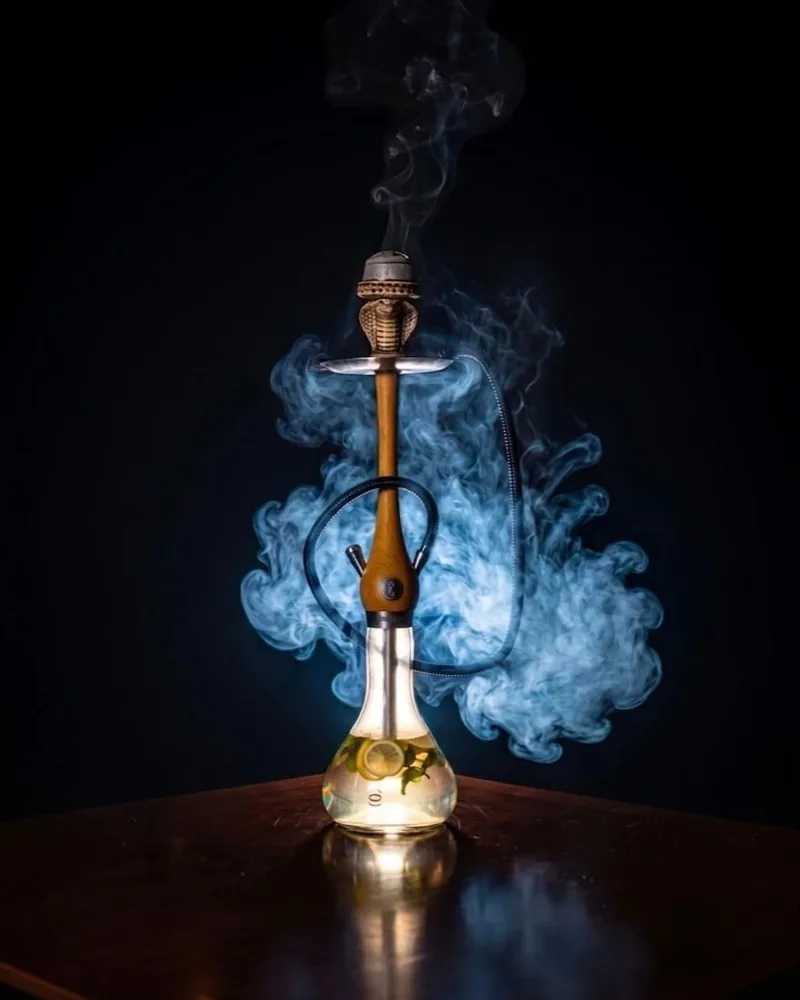
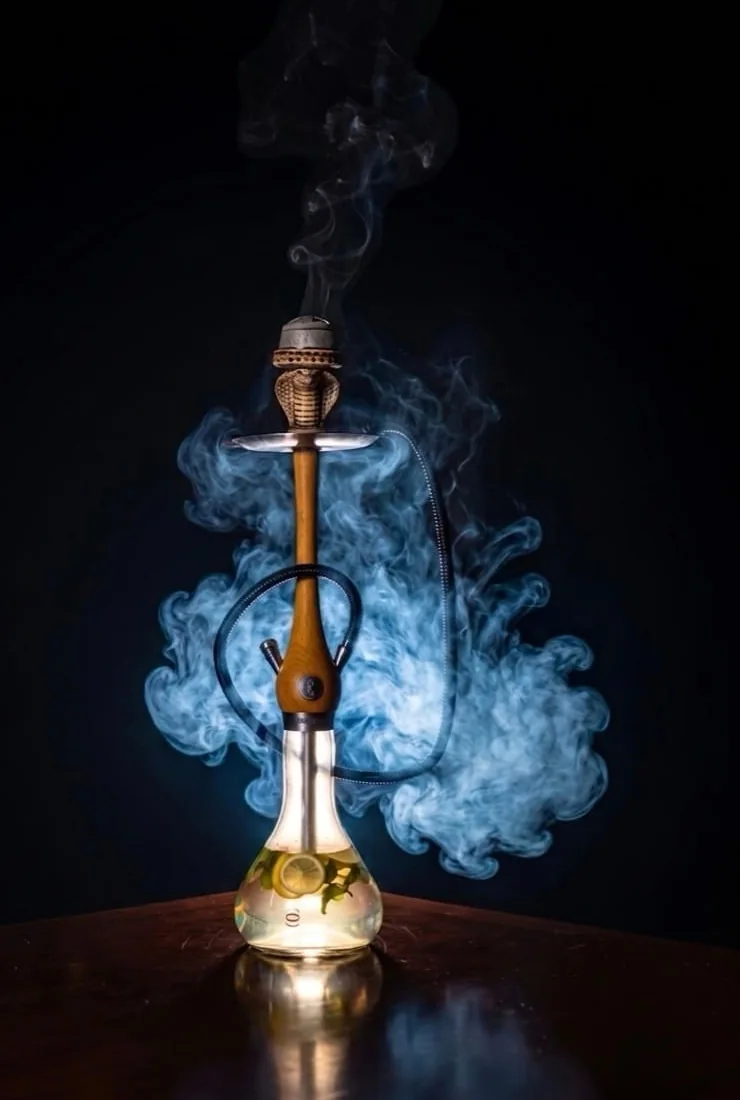
Shisha page: bigger cobra hookah photo, aligned to the Specials text
- tighter crop so the hookah fills more of the frame
- photo stretches to match the height of the text block (desktop)

Claude-Session: https://claude.ai/code/session_01FYVSFfaWUhqLWJjgP9rSfw

diff --git a/shisha/index.html b/shisha/index.html
@@ -69,6 +69,10 @@ h1{font-size:clamp(2.6rem,8vw,4.8rem);font-weight:600;line-height:1;color:#fff}
 .card .ph{aspect-ratio:4/5;max-height:80vh;width:100%;max-width:480px;justify-self:center}
 .no{display:block;font-size:.72rem;letter-spacing:.3em;color:var(--acc);font-weight:600;margin-bottom:12px}
 @media (max-width:760px){.card{grid-template-columns:1fr}.card:nth-child(even) .ph{order:0}.card .ph{max-width:340px}}
+.card.tall .ph{aspect-ratio:auto;max-height:none;max-width:none;align-self:stretch;min-height:560px}
+.card.tall .ph img{position:absolute;inset:0;object-position:center 50%}
+@media (max-width:760px){.card.tall .ph{align-self:auto;aspect-ratio:740/1100;min-height:0;max-width:420px}}
+
 </style>
 </head>
 <body>
@@ -77,7 +81,7 @@ h1{font-size:clamp(2.6rem,8vw,4.8rem);font-weight:600;line-height:1;color:#fff}
 <main class="cards">
 <article class="card"><div class="ph"><img src="/menu/img/shisha-1.webp" alt="Amber cube hookah" width="720" height="900" decoding="async"></div><div class="rv"><span class="no">01</span><div class="hd"><h2>Single shisha</h2><b>AED 65</b></div><p class="sub">Single flavours, with mint or without.</p><div class="shChips"><span>Double apple</span><span>Grape mint</span><span>Grape-berry</span><span>Grape</span><span>Lemon</span><span>Orange</span><span>Grapefruit</span><span>Fresh mist</span><span>Blueberry</span><span>Watermelon</span><span>Sweet melon</span><span>Pineapple</span><span>Gum</span><span>Bubble gum</span><span>Gum mastic</span><span>Strawberry</span><span>Mint</span><span>Coconut</span><span>Kiwi</span><span>Vanilla cherry</span><span>Peach</span><span>Mango</span><span>Gum cinnamon</span><span>Rose</span><span>Chocolate coffee</span><span>Energy drink</span><span>Banana</span></div></div></article>
 <article class="card"><div class="ph"><img src="/menu/img/shisha-2.webp" alt="Carbon fibre hookah" width="720" height="900" decoding="async"></div><div class="rv"><span class="no">02</span><div class="hd"><h2>Mix flavours</h2><b>AED 109</b></div><p class="sub">Blend of 2–3 flavours — make it your own.</p></div></article>
-<article class="card"><div class="ph"><img src="/menu/img/shisha-3.webp" alt="Hookah with wooden stem and lemon-mint base" width="720" height="900" decoding="async" loading="lazy"></div><div class="rv"><span class="no">03</span><div class="hd"><h2>Specials</h2><b>AED 139</b></div><p class="sub">Our signature blends.</p><ul class="lst"><li><strong>Mi Amor</strong><p>Crazy tropical mix of juicy pineapple, ripe banana, and refreshing mint</p></li><li><strong>Lady Killer</strong><p>Iced, minty tropical mango and sweet peach</p></li><li><strong>Love 66</strong><p>The golden recipe of all times in hookah with passion fruits, honeydew melon, watermelon, mint</p></li><li><strong>Marbella</strong><p>A delicious mix of cherry, caramel and chocolate</p></li><li><strong>Hawaii</strong><p>Juicy pineapple and sweet mango with mint</p></li><li><strong>Sky Fall</strong><p>Taste of sweet berries with refreshing lime</p></li><li><strong>Istanbul Night</strong><p>The mix of blueberries, raspberries, and currants</p></li></ul></div></article>
+<article class="card tall"><div class="ph"><img src="/menu/img/shisha-3.webp" alt="Hookah with wooden stem and lemon-mint base" width="740" height="1100" decoding="async" loading="lazy"></div><div class="rv"><span class="no">03</span><div class="hd"><h2>Specials</h2><b>AED 139</b></div><p class="sub">Our signature blends.</p><ul class="lst"><li><strong>Mi Amor</strong><p>Crazy tropical mix of juicy pineapple, ripe banana, and refreshing mint</p></li><li><strong>Lady Killer</strong><p>Iced, minty tropical mango and sweet peach</p></li><li><strong>Love 66</strong><p>The golden recipe of all times in hookah with passion fruits, honeydew melon, watermelon, mint</p></li><li><strong>Marbella</strong><p>A delicious mix of cherry, caramel and chocolate</p></li><li><strong>Hawaii</strong><p>Juicy pineapple and sweet mango with mint</p></li><li><strong>Sky Fall</strong><p>Taste of sweet berries with refreshing lime</p></li><li><strong>Istanbul Night</strong><p>The mix of blueberries, raspberries, and currants</p></li></ul></div></article>
 <article class="card"><div class="ph"><img src="/menu/img/shisha-4.webp" alt="Silver hookah with blue crystal base" width="720" height="900" decoding="async" loading="lazy"></div><div class="rv"><span class="no">04</span><div class="hd"><h2>Nova cocktails · I</h2><b>AED 159</b></div><p class="sub">Cocktail-style blends, part one.</p><ul class="lst"><li><strong>Melon Honey</strong><p>Natural sweet melon taste with extra sweetness</p></li><li><strong>Tutti Frutti</strong><p>Mix of tropical fruits, topped with little bit of freshness</p></li><li><strong>Ice Baby</strong><p>Bright grapefruit meets wild berry sorbet, light, refreshing, and perfect for summer</p></li><li><strong>Strawberry Jam</strong><p>Strawberry jam with hint of berry flavour</p></li><li><strong>Lemon Shock</strong><p>Taste of ultra sour lemon</p></li></ul></div></article>
 <article class="card"><div class="ph"><img src="/menu/img/shisha-5.webp" alt="Black hookah with smoke" width="720" height="900" decoding="async" loading="lazy"></div><div class="rv"><span class="no">05</span><div class="hd"><h2>Nova cocktails · II</h2><b>AED 159</b></div><p class="sub">Cocktail-style blends, part two.</p><ul class="lst"><li><strong>Belgium Waffles</strong><p>Soft sponge cake with cinnamon, creamy soufflé and caramel topping</p></li><li><strong>Peach Killer</strong><p>A luxurious and full-bodied taste of sweet and delicate peach pulp</p></li><li><strong>Mango Tango</strong><p>Sweet mango with tropical passion fruit</p></li><li><strong>Pinkman</strong><p>A unique blend of pink grapefruit, strawberry, and raspberry — destined to be a favorite</p></li><li><strong>Cherry Garden</strong><p>Bold and tart natural cherries, sweet and sour, a flavor that easily becomes a favorite</p></li></ul></div></article>
 </main>
